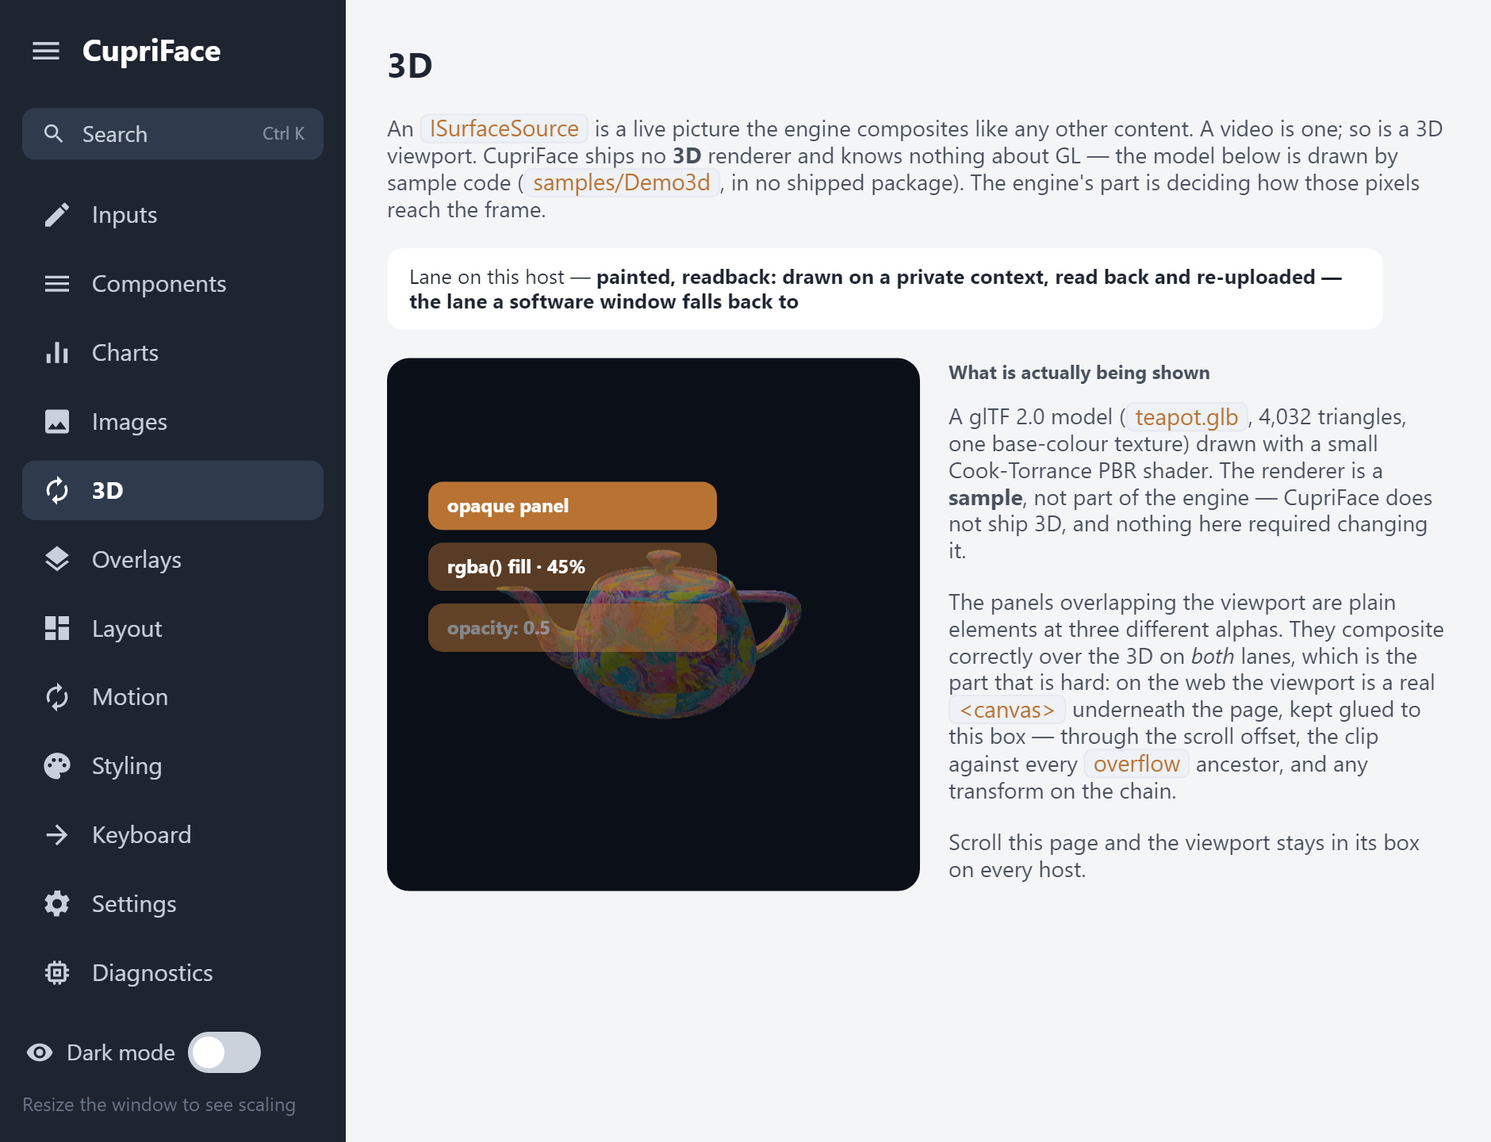
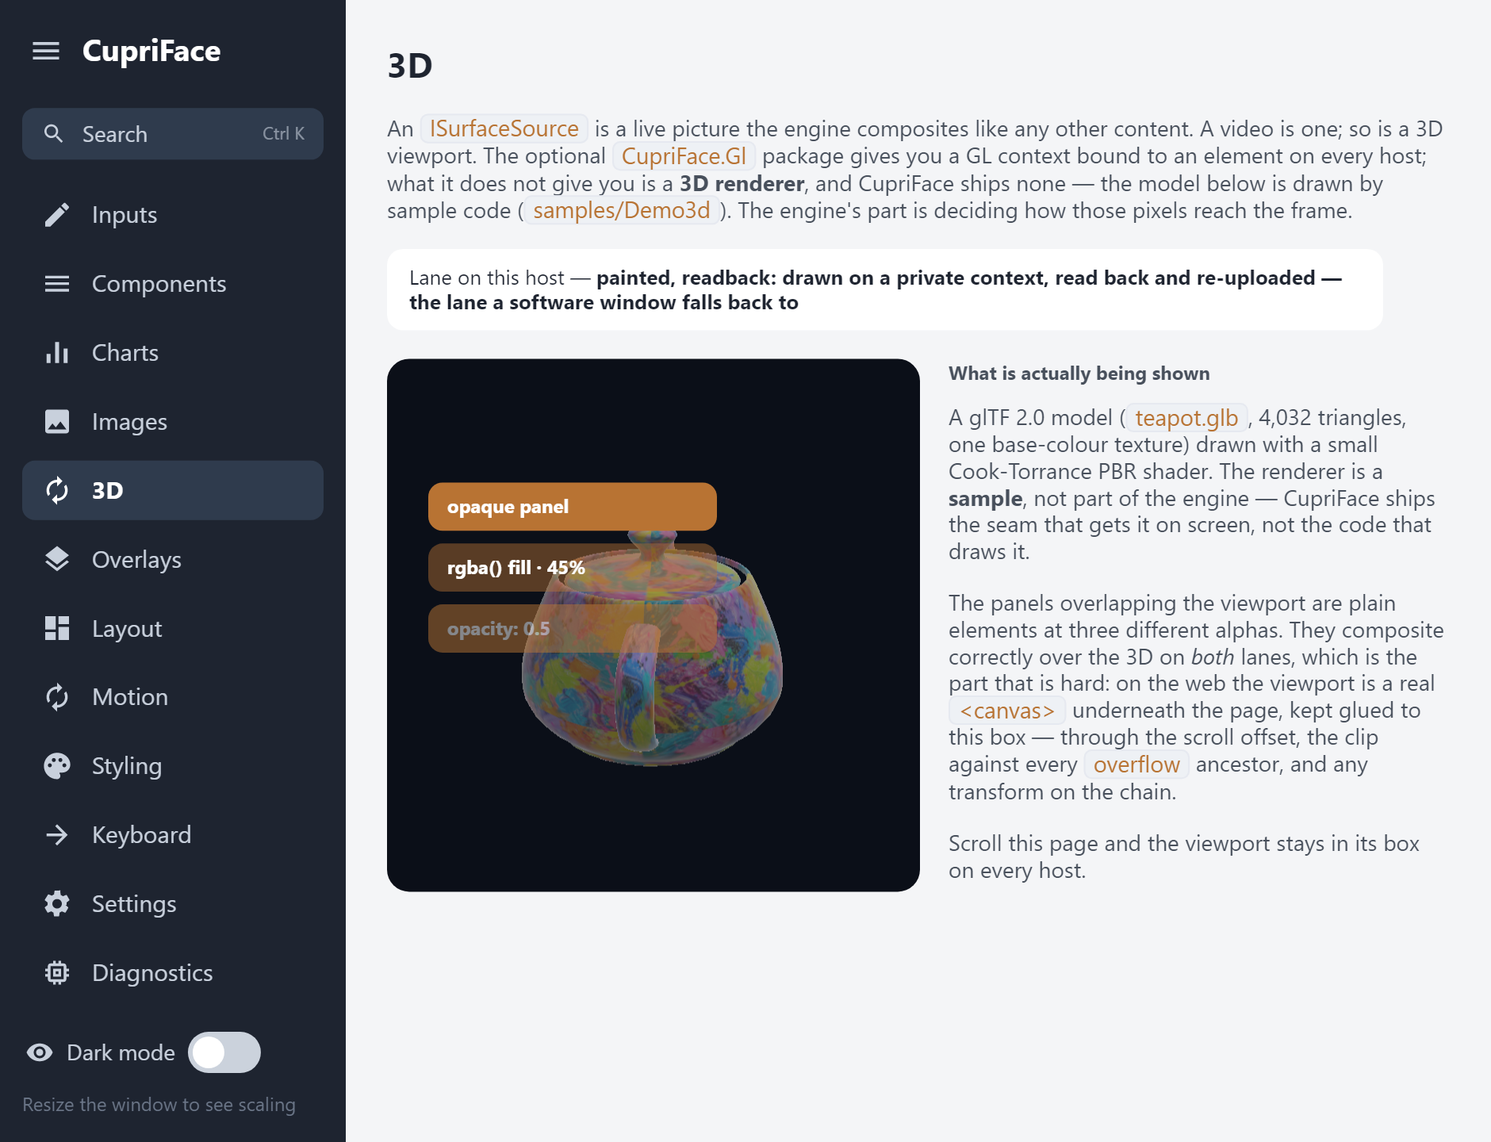
Draw the Showcase 3D with Khalkos3D instead of the sample renderer
The glue, and its size is the finding. CupriFace.Gl's IGlContent hands over a proc-address function
and a frame size; Khalkos3D's GlRenderer wants exactly a proc-address function and a frame size.
Neither library knows the other exists, neither needed changing, and switching each host's
composition root from the hand-written renderer to an engine was ONE TYPE NAME.

That is the claim CupriFace.Gl was built on, tested for the first time by something that was not
written alongside it. A seam that only fits the renderer it shipped with is not a seam.

Everything host-shaped stays on CupriFace's side - acquiring a context, sizing the target to the
element's device box, the texture handoff on desktop and Android, the underlay canvas in a browser.
Everything geometry-shaped stays on Khalkos3D's - parsing, materials, camera, shading. The bridge is
about thirty lines, and lives HERE rather than in Khalkos3D because a general-purpose engine taking a
dependency on a UI toolkit inverts the direction.

Verified locally on the desktop readback lane: the committed 3D screenshot is now rendered by
Khalkos3D, compositing correctly under the three alpha panels the page uses to demonstrate exactly
that.

WHAT THIS ACTUALLY TESTS, AND WHY IT IS PUSHED RATHER THAN SAT ON. Nothing has ever run Khalkos3D's
"#version 300 es" path. Both drivers it has seen are desktop GL - NVIDIA locally, Mesa llvmpipe on
[…]

diff --git a/samples/DemoApp/Assets/ShowcaseApp.html b/samples/DemoApp/Assets/ShowcaseApp.html
@@ -389,8 +389,9 @@ doc.RenderToImage(800, 600);
           any other content. A video is one; so is a 3D viewport. The optional
           <code>CupriFace.Gl</code> package gives you a GL context bound to an element on every
           host; what it does not give you is a <b>3D renderer</b>, and CupriFace ships none — the
-          model below is drawn by sample code (<code>samples/Demo3d</code>). The engine's part is
-          deciding how those pixels reach the frame.</p>
+          model below is drawn by <a href="https://github.com/Wixely/Khalkos3D">Khalkos3D</a>, a
+          separate engine, through about thirty lines of glue. The engine's part is deciding how
+          those pixels reach the frame.</p>
 
         <div class="lane">Lane on this host — <b>{{Lane3d}}</b></div>
         <!-- The driver's own answer. On the Android emulator this reads "SwiftShader"; on a real
@@ -418,9 +419,11 @@ doc.RenderToImage(800, 600);
           <div style="flex:1; min-width:260px">
             <div class="mlabel">What is actually being shown</div>
             <p class="sub" style="display:{{Has3d}}">A glTF 2.0 model (<code>teapot.glb</code>,
-              4,032 triangles, one base-colour texture) drawn with a small Cook-Torrance PBR shader.
-              The renderer is a <b>sample</b>, not part of the engine — CupriFace ships the seam
-              that gets it on screen, not the code that draws it.</p>
+              4,032 triangles, one base-colour texture) loaded and drawn by <b>Khalkos3D</b>, which
+              knows nothing about CupriFace: it is handed a function that resolves GL entry points and
+              a size in device pixels, and draws. CupriFace ships the seam that gets it on screen, not
+              the code that draws it — and swapping one renderer for another was a single type name in
+              each host's composition root.</p>
             <p class="sub" style="display:{{No3d}}">This host has not wired a 3D surface, so the
               viewport paints nothing and the panel behind it shows through. That is the engine's
               ordinary behaviour for a surface with no frames — the same fallback that shows a

diff --git a/samples/Khalkos3dBridge/Khalkos3dContent.cs b/samples/Khalkos3dBridge/Khalkos3dContent.cs
@@ -1,0 +1,143 @@
+using System.Numerics;
+using System.Runtime.InteropServices;
+using CupriFace.Gl;
+using Khalkos3D;
+using Khalkos3D.Formats;
+using Khalkos3D.Gl;
+using SkiaSharp;
+
+namespace CupriFace.Samples.Khalkos;
+
+/// <summary>
+/// A <see cref="Khalkos3D"/> scene drawn through CupriFace's GL seam.
+///
+/// <para><b>This is the whole integration, and its size is the point.</b> CupriFace's
+/// <see cref="IGlContent"/> hands over a proc-address function and a frame size;
+/// <see cref="GlRenderer"/> wants exactly a proc-address function and a frame size. Neither library
+/// knows the other exists and neither needed changing — the seam was designed to take a renderer,
+/// and the renderer was designed to be handed a context.</para>
+///
+/// <para>Everything host-shaped stays on CupriFace's side: acquiring the context, sizing the target
+/// to the element's device box, the texture handoff on desktop and Android, the underlay canvas in a
+/// browser. Everything geometry-shaped stays on Khalkos3D's: parsing, materials, camera, shading.
+/// Nothing in between had to be invented.</para>
+/// </summary>
+public sealed class Khalkos3dContent : IGlContent
+{
+    private readonly Scene _scene;
+    private readonly Action<string> _log;
+    private readonly RenderSettings _settings;
+    private GlRenderer? _renderer;
+
+    private Khalkos3dContent(Scene scene, Action<string> log, Vector4? clearColor)
+    {
+        _scene = scene;
+        _log = log;
+        _settings = new RenderSettings
+        {
+            // CupriFace.Gl has already cleared to the host's chosen colour before Render is called,
+            // and clearing again here would erase whatever it put behind the model. Two libraries
+            // each politely leaving the clear to the other is exactly the sort of thing that shows up
+            // as a black viewport, so both sides say who owns it.
+            ClearColor = null,
+            Up = scene.Up,
+            Environment = Khalkos3D.Environment.Studio,
+        };
+        _ = clearColor;
+    }
+
+    /// <summary>What the driver called itself, once a context has come up. Empty before then.</summary>
+    public string Renderer => _renderer?.Renderer ?? "";
+
+    /// <summary>The GL version string the driver reported.</summary>
+    public string Version => _renderer?.Version ?? "";
+
+    /// <summary>Which shader dialect the engine compiled for this context — the one thing that
+    /// genuinely differs between a desktop, a phone and a browser.</summary>
+    public string Dialect => _renderer?.Dialect.ToString() ?? "";
+
+    /// <summary>Frames drawn.</summary>
+    public long Frames { get; private set; }
+
+    /// <summary>
+    /// Load the demo model, or return null. Never throws: a host whose asset is missing shows the
+    /// element's poster, which is CupriFace's existing behaviour for a surface with no frames.
+    /// </summary>
+    public static Khalkos3dContent? FromEmbeddedAsset(Action<string>? log = null, Vector4? clearColor = null)
+    {
+        log ??= _ => { };
+        try
+        {
+            var assembly = typeof(Khalkos3dContent).Assembly;
+            using var stream = assembly.GetManifestResourceStream("teapot.glb");
+            if (stream is null) { log("the teapot asset is not embedded"); return null; }
+            var glb = new byte[stream.Length];
+            stream.ReadExactly(glb);
+
+            var scene = GltfReader.Read(glb, new GltfOptions { DecodeImage = DecodeWithSkia });
+            foreach (var note in scene.Report.Notes) log(note.ToString());
+
+            return new Khalkos3dContent(scene, log, clearColor);
+        }
+        catch (Exception ex)
+        {
+            log($"the model could not be read ({ex.GetType().Name}: {ex.Message})");
+            return null;
+        }
+    }
+
+    /// <summary>Skia decodes; the engine only ever sees RGBA. Khalkos3D bundles no codec on purpose,
+    /// so this delegate is the whole of what a caller supplies — and a CupriFace app already has
+    /// Skia, which is the argument for the seam being a delegate rather than a dependency.</summary>
+    private static ImageData? DecodeWithSkia(byte[] encoded)
+    {
+        using var decoded = SKBitmap.Decode(encoded);
+        if (decoded is null) return null;
+        using var rgba = decoded.Info.ColorType == SKColorType.Rgba8888
+            ? decoded.Copy() : decoded.Copy(SKColorType.Rgba8888);
+        var pixels = new byte[rgba.Width * rgba.Height * 4];
+        Marshal.Copy(rgba.GetPixels(), pixels, 0, pixels.Length);
+        return new ImageData(pixels, rgba.Width, rgba.Height);
+    }
+
+    /// <inheritdoc/>
+    public bool Initialise(GlContext gl)
+    {
+        // The proc-address function comes straight across. CupriFace resolved it per host — WGL,
+        // dlsym on libGLESv3, emscripten — and Khalkos3D neither knows nor needs to know which.
+        _renderer = GlRenderer.Create(gl.GetProcAddress, out var error);
+        if (_renderer is null) { _log($"the engine would not start: {error}"); return false; }
+
+        // Both sides decide the shader dialect by asking the driver rather than by guessing from the
+        // platform, so this line is worth logging: if they ever disagreed, that would be the bug.
+        _log($"ready GL_VERSION={_renderer.Version} GL_RENDERER={_renderer.Renderer} " +
+             $"dialect={_renderer.Dialect} cupriface={gl.Dialect}");
+        return true;
+    }
+
+    /// <inheritdoc/>
+    public void Render(GlContext gl, in GlFrame frame)
+    {
+        if (_renderer is null) return;
+
+        // Orbit against the wall clock so the model turns at the same rate on a host drawing sixty
+        // frames a second and one drawing fifteen. frame.Width and Height are DEVICE pixels, already
+        // sized to the element's box by CupriFace, so the aspect is right without asking anything.
+        var camera = Camera.Frame(
+            _scene.Bounds, _scene.Up,
+            yaw: 0.6f + (float)frame.ElapsedSeconds * 0.6f,
+            pitch: 0.35f,
+            zoom: 0.9f,
+            aspect: frame.Height > 0 ? (float)frame.Width / frame.Height : 1f);
+
+        _renderer.Draw(_scene, camera, frame.Width, frame.Height, _settings);
+        Frames++;
+    }
+
+    /// <inheritdoc/>
+    public void Shutdown(GlContext gl)
+    {
+        _renderer?.Dispose();
+        _renderer = null;
+    }
+}

diff --git a/samples/AndroidViewer/Teapot3dSurface.cs b/samples/AndroidViewer/Teapot3dSurface.cs
@@ -1,35 +1,32 @@
-using CupriFace.Demo.ThreeD;
 using CupriFace.Gl;
+using CupriFace.Samples.Khalkos;
 
 namespace CupriFace.AndroidViewer;
 
 /// <summary>
-/// The Showcase's 3D viewport on ANDROID — now the shortest of the three, and short for a reason
-/// worth stating: there is nothing Android-specific left in it.
+/// The Showcase's 3D viewport on ANDROID, drawn by Khalkos3D.
 ///
-/// <para>Everything that used to be here was integration. Loading <c>libGLESv3.so</c> rather than
-/// trusting <c>eglGetProcAddress</c> (whose stubs lie about symbols that do not exist), choosing
-/// <c>#version 300 es</c>, building a framebuffer, wrapping its colour attachment as a
-/// texture-backed image, gating on whether the element is actually on screen so a phone's GPU is not
-/// pinned behind a page nobody is looking at — all of it is in <c>CupriFace.Gl</c>, and all of it is
-/// now shared with the hosts that need the same things done differently.</para>
+/// <para><b>This is the host that matters for the engine.</b> Desktop and the CI render gate both
+/// compile <c>#version 330 core</c>; Android is the first place the <c>#version 300 es</c> path runs
+/// at all, on a real GLES driver rather than a desktop one. Both libraries decide that dialect by
+/// asking the driver rather than by guessing from the platform, and if they ever disagreed this is
+/// where it would show — which is why the ready line below logs both answers.</para>
 ///
-/// <para>No <c>OffscreenContext</c> factory is supplied, and that is deliberate rather than an
-/// omission: Android's host renders through an <c>SKGLSurfaceView</c> which always has a real
-/// <c>GRContext</c>, so the fallback lane can never be reached. Supplying one would be dead code
-/// implying a case that does not exist.</para>
+/// <para>No <c>OffscreenContext</c> factory is supplied, deliberately: Android's host renders through
+/// an <c>SKGLSurfaceView</c> which always has a real <c>GRContext</c>, so the fallback lane cannot be
+/// reached and supplying one would imply a case that does not exist.</para>
 /// </summary>
 internal static class Teapot3dSurface
 {
     internal static GlViewport? TryAttach(CupriDocument doc, Action<string>? log = null)
     {
         log ??= _ => { };
-        var content = TeapotContent.FromEmbeddedAsset(m => log("3d: " + m));
+        var content = Khalkos3dContent.FromEmbeddedAsset(m => log("3d: " + m));
         if (content is null) return null;
 
         return GlViewport.Attach(doc, "showcase3d", new GateReporting(content, log), new GlViewportOptions
         {
-            Log = m => log("3d: " + m),
+            Log = m => log("cupri-gate: 3d " + m),
             ClearColor = (0f, 0f, 0f, 0f),
         });
     }
@@ -37,25 +34,25 @@ internal static class Teapot3dSurface
     /// <summary>
     /// Wraps the drawing code to emit the two lines the CI device gate asserts on.
     ///
-    /// <para>Kept as a DECORATOR rather than as options on the viewport, because it is a property of
-    /// this build and not of the package: a library that logged frame milestones uninvited would be
-    /// a library people wrap. <see cref="IGlContent"/> composing cleanly is the point — this is
-    /// twelve lines and needs nothing the interface does not already give it.</para>
+    /// <para>A DECORATOR rather than a feature of either library, because it is a property of this
+    /// build: neither a UI toolkit nor an engine should log frame milestones uninvited.
+    /// <see cref="IGlContent"/> composing cleanly is the point — this needs nothing the interface does
+    /// not already give it, and it now wraps an engine exactly as it previously wrapped a sample
+    /// renderer.</para>
     ///
-    /// <para>The gate asserts on the DRIVER'S OWN ANSWER and then on a frame count, rather than on
-    /// the app not crashing: a surface that fails to initialise leaves the viewport showing its
-    /// panel, which looks deliberate and would pass any "did it launch" check. On the emulator
-    /// <c>GL_RENDERER</c> reads "SwiftShader"; a real handset names its chip, and that difference is
-    /// the only one a person can see.</para>
+    /// <para>The gate asserts on the DRIVER'S OWN ANSWER and then on a sustained frame count, because
+    /// a surface that fails to initialise leaves the viewport showing its panel — which looks
+    /// deliberate and would pass any "did it launch" check.</para>
     /// </summary>
-    private sealed class GateReporting(IGlContent inner, Action<string> log) : IGlContent
+    private sealed class GateReporting(Khalkos3dContent inner, Action<string> log) : IGlContent
     {
         private long _frames;
 
         public bool Initialise(GlContext gl)
         {
             if (!inner.Initialise(gl)) return false;
-            log($"cupri-gate: 3d ready GL_VERSION={gl.Version} GL_RENDERER={gl.Renderer} lane={gl.Lane}");
+            log($"cupri-gate: 3d ready GL_VERSION={inner.Version} GL_RENDERER={inner.Renderer} " +
+                $"engine={inner.Dialect} host={gl.Dialect}");
             return true;
         }
 
@@ -63,7 +60,9 @@ internal static class Teapot3dSurface
         {
             inner.Render(gl, in frame);
             // Once, at 60 — enough to prove it kept going rather than managing a single frame.
-            if (++_frames == 60) log($"cupri-gate: 3d frames={_frames} lane={gl.Lane} size={frame.Width}x{frame.Height}");
+            if (++_frames == 60)
+                log($"cupri-gate: 3d frames={_frames} size={frame.Width}x{frame.Height} " +
+                    $"engine={inner.Dialect}");
         }
 
         public void Shutdown(GlContext gl) => inner.Shutdown(gl);

diff --git a/samples/WebLlvm/Web3dSurface.cs b/samples/WebLlvm/Web3dSurface.cs
@@ -1,21 +1,20 @@
-using CupriFace.Demo.ThreeD;
 using CupriFace.Gl;
+using CupriFace.Samples.Khalkos;
 
 namespace CupriFace.Samples.WebLlvm;
 
 /// <summary>
-/// The Showcase's 3D viewport in the BROWSER — the host where none of the desktop strategy works,
-/// and where the package earns its keep most obviously.
+/// The Showcase's 3D viewport in the BROWSER, drawn by Khalkos3D.
 ///
-/// <para>A wasm host renders to an <c>SKBitmap</c> and presents through <c>putImageData</c>, so
-/// there is no GPU context to share and nothing to hand back. <c>GlViewport</c> takes the engine's
-/// other lane instead: it declares itself host-composited, the painter punches a transparent hole at
-/// the element's box, and the host creates a real <c>&lt;canvas&gt;</c> underneath and keeps it glued
-/// there through scrolling, every <c>overflow</c> ancestor's clip and any transform on the chain.
-/// That machinery is <c>&lt;cupri-video&gt;</c>'s, unchanged and reused.</para>
+/// <para>A wasm host renders to an <c>SKBitmap</c> and presents through <c>putImageData</c>, so there
+/// is no GPU context to share and nothing to hand back. <c>GlViewport</c> takes the engine's other
+/// lane: it declares itself host-composited, the painter punches a transparent hole at the element's
+/// box, and the host creates a real <c>&lt;canvas&gt;</c> underneath and keeps it glued there through
+/// scrolling, every <c>overflow</c> ancestor's clip and any transform on the chain.</para>
 ///
-/// <para><b>Nothing in the engine was added for 3D.</b> <c>ISurfaceSource</c>, <c>HostComposited</c>
-/// and the underlay seam are all public API a video already used.</para>
+/// <para><b>WebGL2 IS OpenGL ES 3.0</b>, so the engine compiles the identical shader here as on the
+/// phone — which makes this and the Android host two independent checks of the same dialect on two
+/// completely different drivers.</para>
 /// </summary>
 internal static class Web3dSurface
 {
@@ -25,19 +24,18 @@ internal static class Web3dSurface
     internal static GlViewport? TryAttach(CupriDocument doc, Action<string>? log = null)
     {
         log ??= _ => { };
-        var content = TeapotContent.FromEmbeddedAsset(m => log("3d: " + m));
+        var content = Khalkos3dContent.FromEmbeddedAsset(m => log("3d: " + m));
         if (content is null) return null;
 
         return GlViewport.Attach(doc, "showcase3d", content, new GlViewportOptions
         {
             Log = m => log("3d: " + m),
-            // OPAQUE, and this is the only line in the file that differs from the desktop's — for a
-            // real property of host compositing rather than a style choice. The hole is punched with
-            // BlendMode.Src, so it erases everything already painted at that box INCLUDING the
-            // element's own CSS background. On a desktop the model is drawn over that background and
-            // picks it up for free; here there is nothing behind the canvas but the page. Clearing
-            // transparent left the web viewport white while the desktop one was near-black, from
-            // identical markup. The underlay has to supply the backdrop the hole took away.
+            // OPAQUE, and the only line here that differs from the desktop's — for a real property of
+            // host compositing rather than a style choice. The hole is punched with BlendMode.Src, so
+            // it erases everything already painted at that box INCLUDING the element's own CSS
+            // background. On a desktop the model is drawn over that background and picks it up for
+            // free; here there is nothing behind the canvas but the page. Clearing transparent left
+            // the web viewport white while the desktop one was near-black, from identical markup.
             ClearColor = (R, G, B, 1f),
         });
     }

diff --git a/samples/Viewer/Teapot3dSurface.cs b/samples/Viewer/Teapot3dSurface.cs
@@ -1,5 +1,5 @@
-using CupriFace.Demo.ThreeD;
 using CupriFace.Gl;
+using CupriFace.Samples.Khalkos;
 using Silk.NET.Windowing;
 
 namespace CupriFace.Samples.Viewer;
@@ -7,25 +7,26 @@ namespace CupriFace.Samples.Viewer;
 /// <summary>
 /// The Showcase's 3D viewport on DESKTOP.
 ///
-/// <para><b>This file used to be 270 lines.</b> It owned a GL context, a render thread, a
-/// framebuffer, a readback buffer, a row flip, a texture handoff, a poll-counting heuristic for
-/// deciding which of two lanes to take, and a Win32 proc-address loader. All of that was integration
-/// rather than rendering, all of it was duplicated in some form by the Android and browser hosts,
-/// and all of it now lives in <c>CupriFace.Gl</c>. What is left is the composition root's actual
-/// job: say what to draw, and supply the one capability the package deliberately does not carry.</para>
+/// <para><b>The drawing is now Khalkos3D's, and this file did not grow to accommodate it.</b> It used
+/// to point at a hand-written renderer in <c>samples/Demo3d</c>; it now points at an engine, through
+/// the same three-method <see cref="IGlContent"/> it always used. That the swap is one type name is
+/// the strongest available evidence that the seam is a seam rather than a shape moulded around one
+/// particular renderer.</para>
+///
+/// <para><c>samples/Demo3d</c> is deliberately left in place. It is the reference the engine was
+/// measured against, and switching back is one line.</para>
 /// </summary>
 public static class Teapot3dSurface
 {
     /// <summary>
     /// Wire the demo into a document, or leave it alone. Returns null when the model cannot be read,
     /// and never throws: a machine with no usable OpenGL must still run the Showcase — it shows the
-    /// poster and a line of text saying so, which is the engine's existing behaviour for a surface
-    /// with no frames.
+    /// poster and a line of text saying so.
     /// </summary>
     public static GlViewport? TryAttach(CupriDocument doc, Action<string>? log = null)
     {
         log ??= _ => { };
-        var content = TeapotContent.FromEmbeddedAsset(m => log("3d: " + m));
+        var content = Khalkos3dContent.FromEmbeddedAsset(m => log("3d: " + m));
         if (content is null) return null;
 
         return GlViewport.Attach(doc, "showcase3d", content, new GlViewportOptions
@@ -35,12 +36,12 @@ public static class Teapot3dSurface
             // model sits on the page's own panel rather than on a plate of its own. The browser host
             // cannot do this and says why in its own file.
             ClearColor = (0f, 0f, 0f, 0f),
-            // The one thing the package will not do for itself, and the reason it is a factory rather
-            // than a built-in: making an offscreen context needs a windowing library, and putting
-            // Silk.NET into the package would drag a desktop windowing stack into every Android and
-            // browser build that referenced it. Desktop already has one, so desktop supplies it —
-            // and gets a working viewport on a software window and in a headless render, where there
-            // is no host GPU context to share.
+            // The one thing CupriFace.Gl will not do for itself, and the reason it is a factory
+            // rather than a built-in: making an offscreen context needs a windowing library, and
+            // putting Silk.NET into the package would drag a desktop windowing stack into every
+            // Android and browser build that referenced it. Desktop already has one, so desktop
+            // supplies it — and gets a working viewport on a software window and in a headless
+            // render, where there is no host GPU context to share.
             OffscreenContext = () => new SilkOffscreenContext(log),
         });
     }
